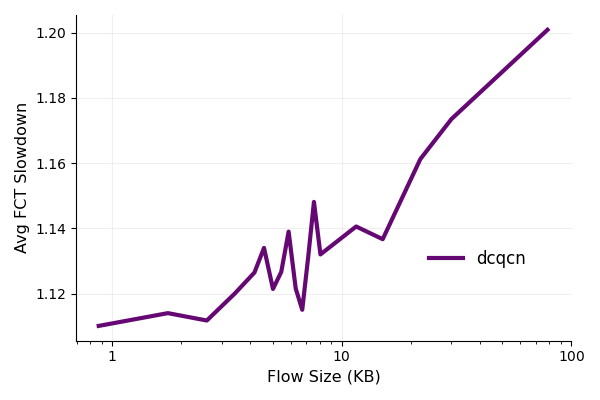
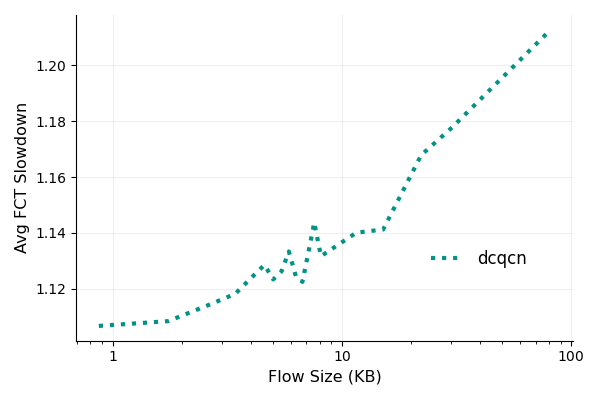
ns rdma dcqcn

diff --git a/exercises2/user_space/NS3/hpcc-ana/all-to-all_visual.py b/exercises2/user_space/NS3/hpcc-ana/all-to-all_visual.py
@@ -149,7 +149,7 @@ with PdfPages('plot.pdf') as pdf:
     # # ax.plot(xvals, result["avg"], markersize=1.0, linewidth=3.0, label="{}".format(lb_mode), linestyle=LS[1])
     # ax.plot(result["size"], result["avg"], markersize=1.0, linewidth=3.0, label="{}".format(lb_mode), linestyle=LS[1], color = 'xkcd:orange')
 
-    lb_mode = "ConWeave"
+    lb_mode = "dcqcn"
     conweave_result = get_steps_from_raw(conweave_id, STEP)
     ax.plot(conweave_result["size"], conweave_result["avg"], markersize=1.0, linewidth=3.0, label="{}".format(lb_mode), linestyle=LS[2], color = 'xkcd:teal')
 

diff --git a/exercises2/user_space/NS3/hpcc-ana/README.md b/exercises2/user_space/NS3/hpcc-ana/README.md
@@ -53,7 +53,7 @@ not --enable_tr 1
 ```
 python run.py --trace flow  --topo topology  --cc dcqcn --bw 100
 ```
-+ python3 fct_analysis.py  or  python3 all-to-all_visual.py         
++  python3 all-to-all_visual.py         
 ![images](plot3.png)
 ## source
 %s/1000ns/0.001ms/g  
